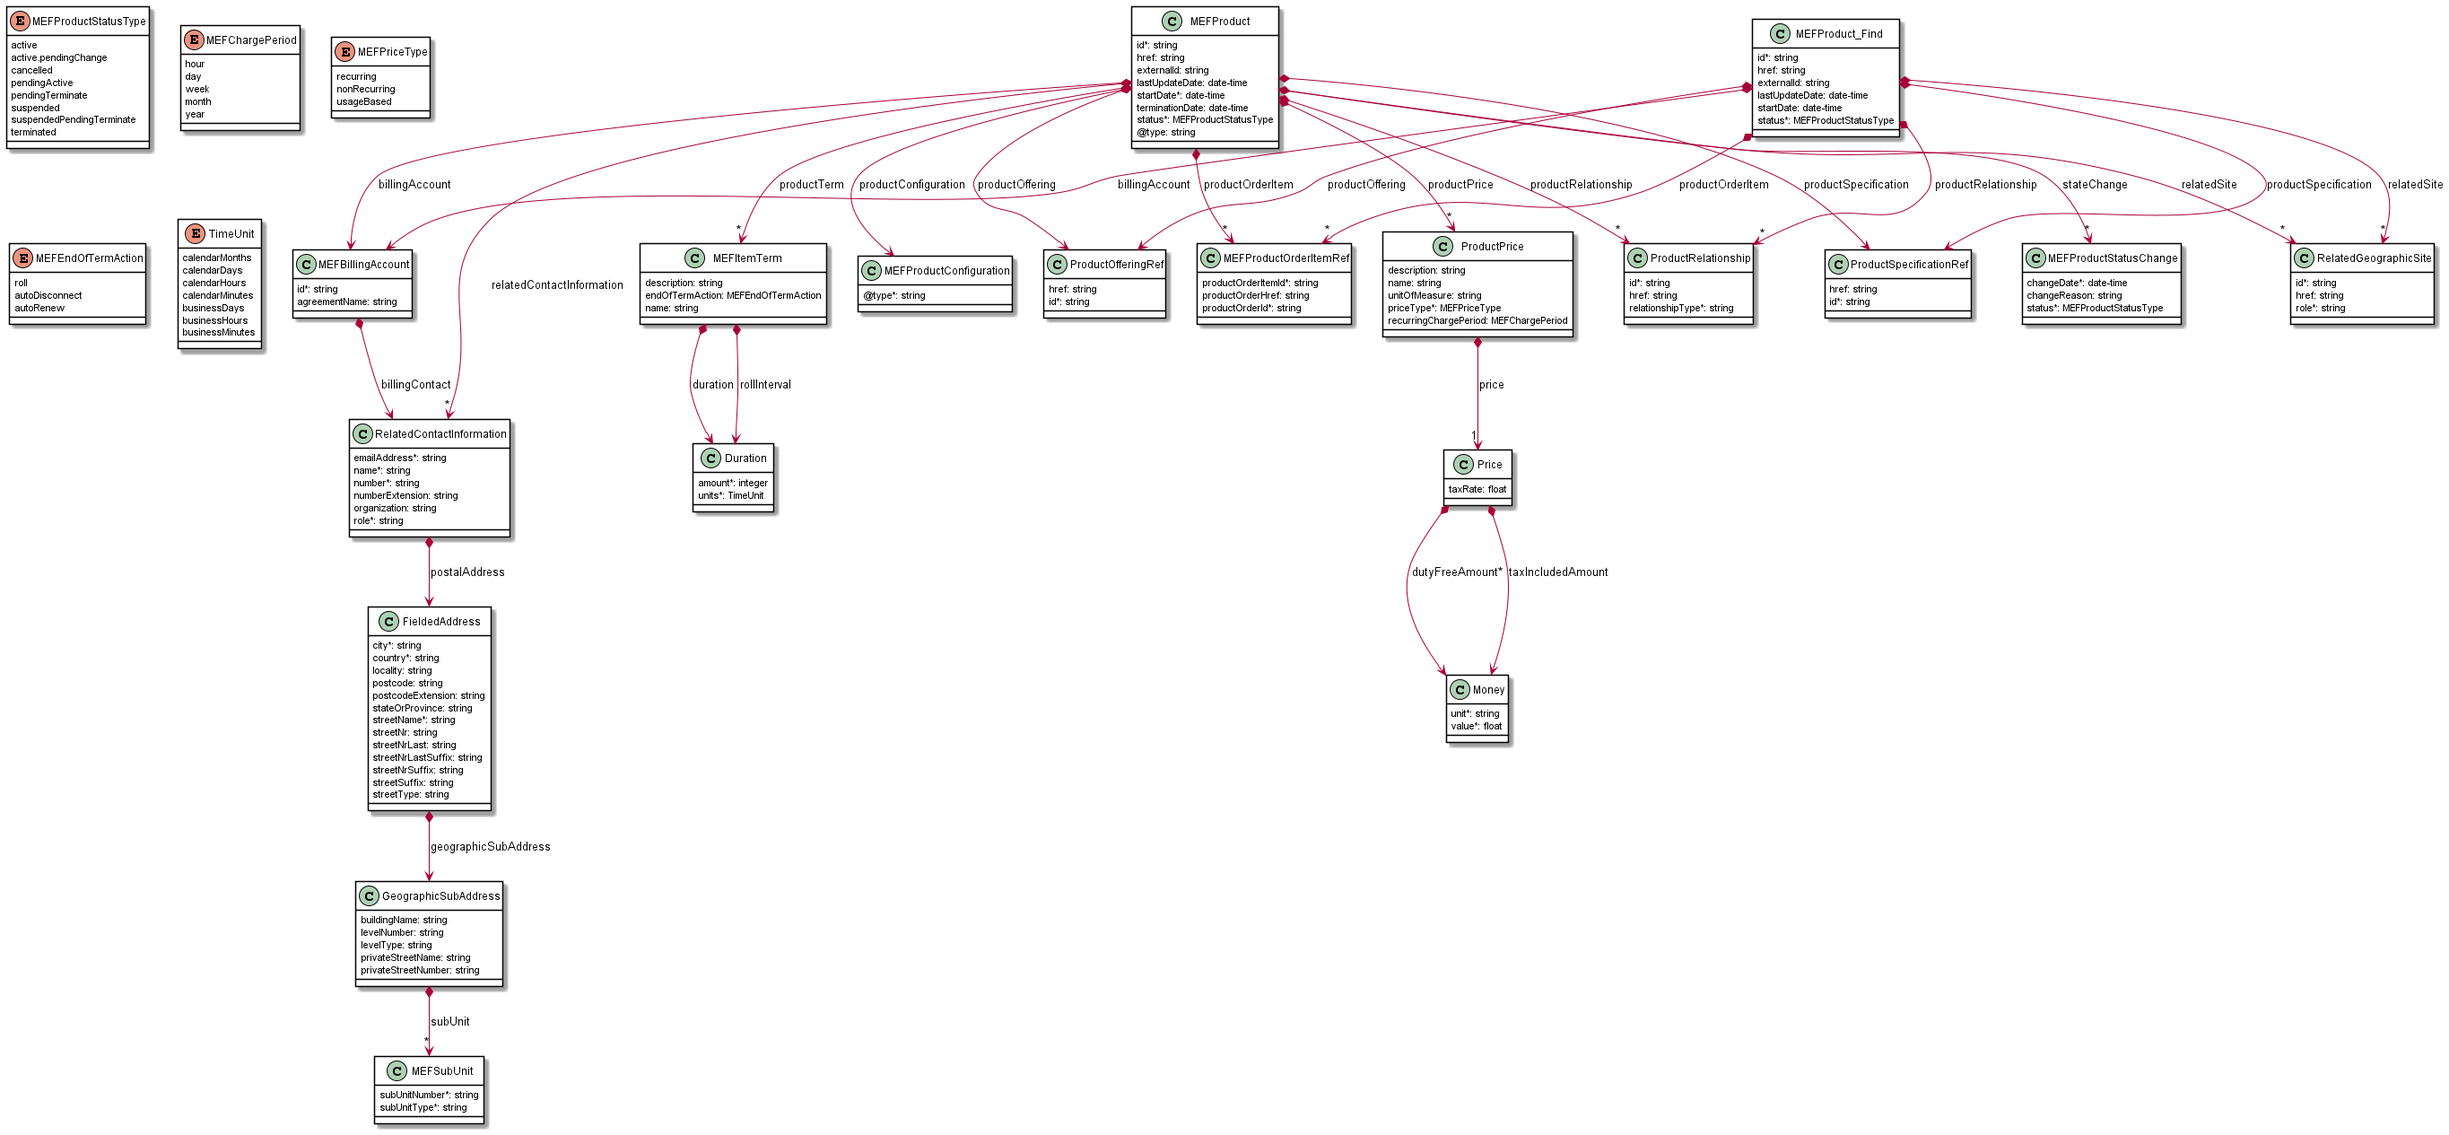
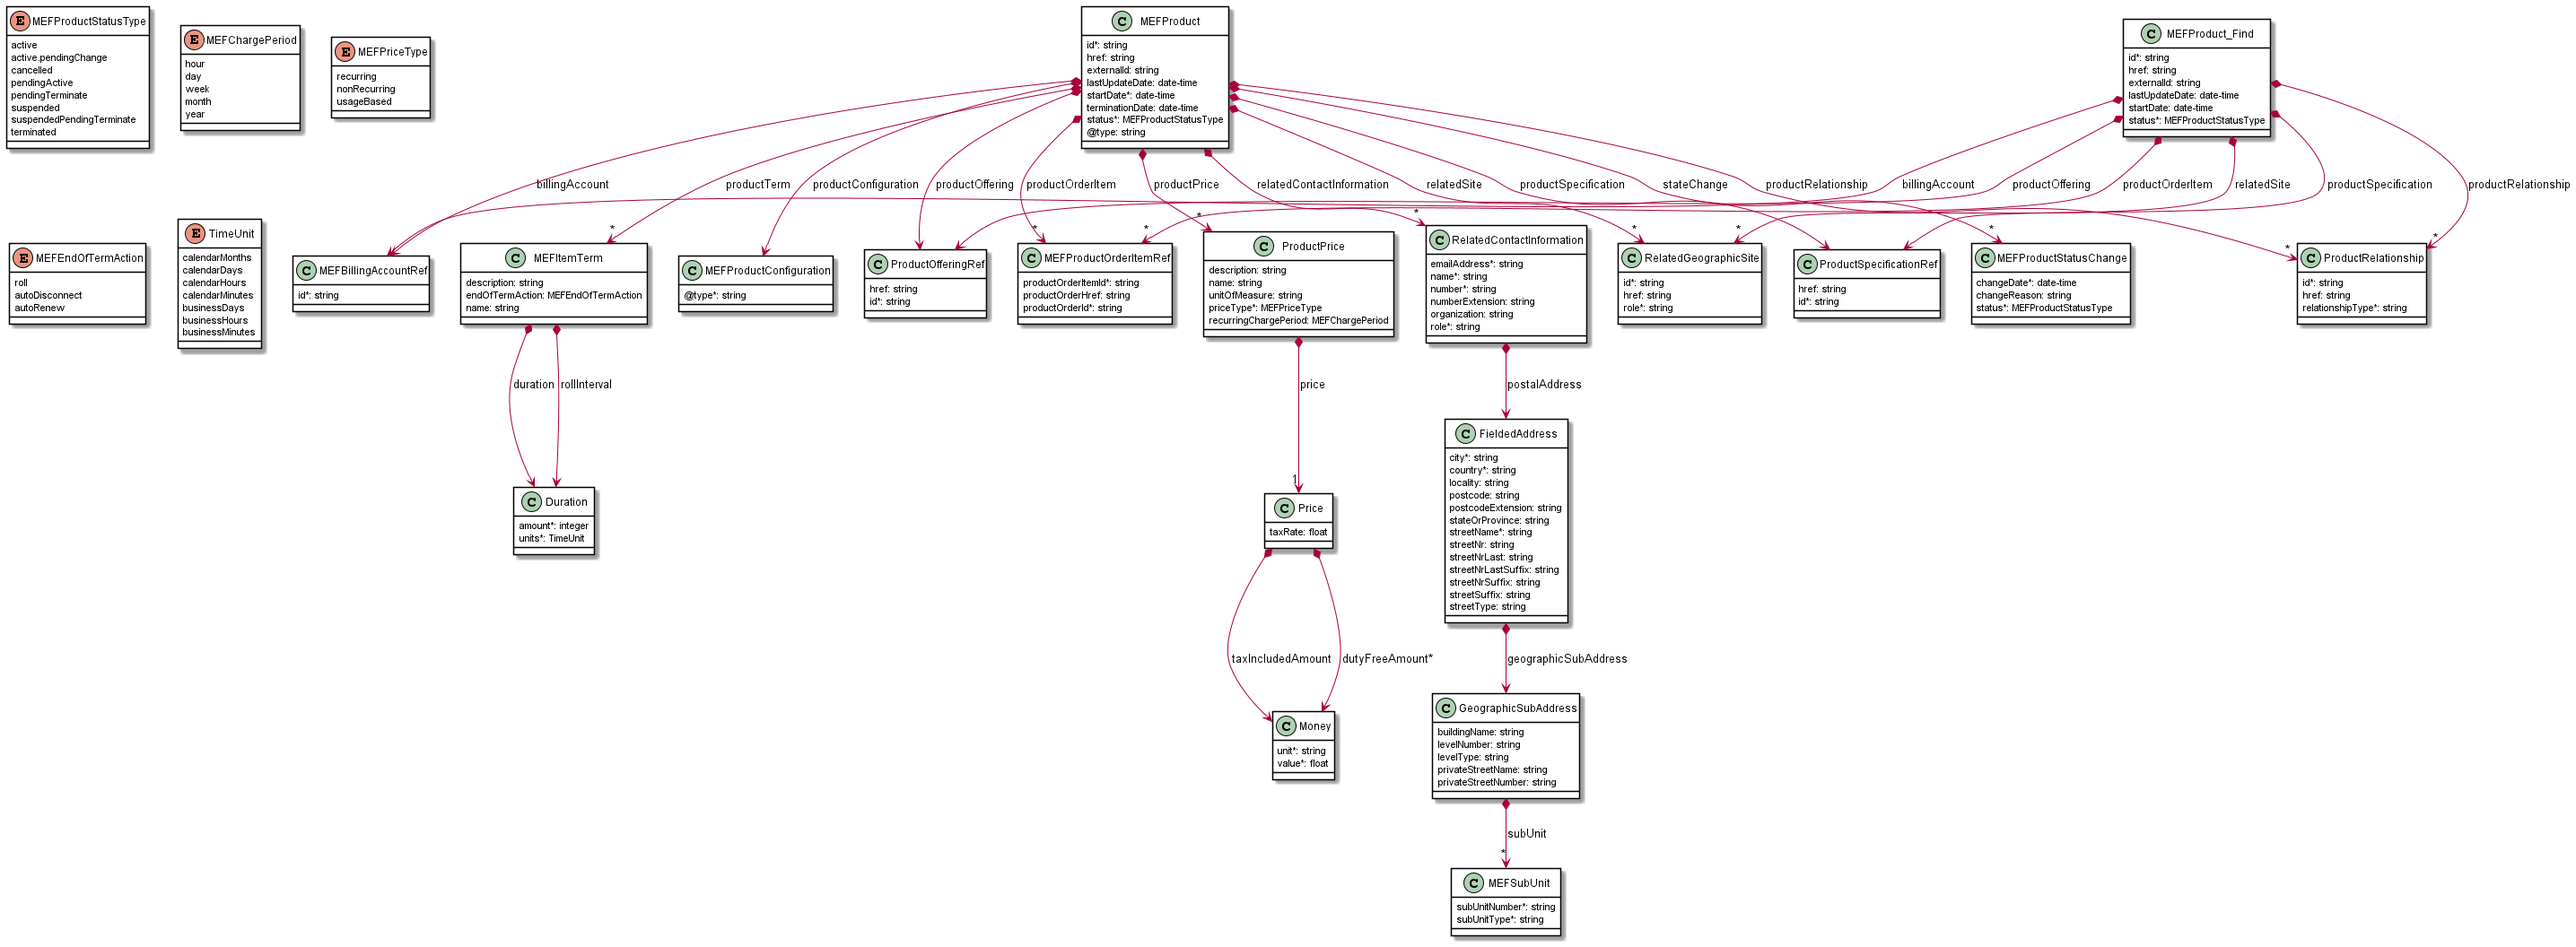
Inventory Commit for standard

diff --git a/documentation/productApi/inventory/MEF 116 - LSO Cantata and LSO Sonata Product Inventory API - Developer Guide.md b/documentation/productApi/inventory/MEF 116 - LSO Cantata and LSO Sonata Product Inventory API - Developer Guide.md
@@ -122,7 +122,7 @@ contained herein.
       - [7.2.2.2. Type FieldedAddress](#7222-type-fieldedaddress)
       - [7.2.2.3. Type GeographicSubAddress](#7223-type-geographicsubaddress)
       - [7.2.2.4. Type MEFSubUnit](#7224-type-mefsubunit)
-      - [7.2.2.5. Type MEFBillingAccount](#7225-type-mefbillingaccount)
+      - [7.2.2.5. Type MEFBillingAccountRef](#7225-type-mefbillingaccountref)
       - [7.2.2.6. `enum` MEFChargePeriod](#7226-enum-mefchargeperiod)
       - [7.2.2.7. Type MEFItemTerm](#7227-type-mefitemterm)
       - [7.2.2.8. `enum` MEFEndOfTermAction](#7228-enum-mefendoftermaction)
@@ -174,16 +174,16 @@ they were part of this document, from the GitHub repository:
 <https://github.com/MEF-GIT/MEF-LSO-Sonata-SDK>
 
 commit id:
-[415ef5ad60d07cf6bc87c36c684217e98cb9936e](https://github.com/MEF-GIT/MEF-LSO-Sonata-SDK/tree/415ef5ad60d07cf6bc87c36c684217e98cb9936e)
+[2062c16db194adc5109d0b7c0578a1a9128c6471](https://github.com/MEF-GIT/MEF-LSO-Sonata-SDK/tree/2062c16db194adc5109d0b7c0578a1a9128c6471)
 
-- [`productApi/inventory/productInventoryManagement.api.yaml`](https://github.com/MEF-GIT/MEF-LSO-Sonata-SDK/blob/415ef5ad60d07cf6bc87c36c684217e98cb9936e/productApi/inventory/productInventoryManagement.api.yaml)
+- [`productApi/inventory/productInventoryManagement.api.yaml`](https://github.com/MEF-GIT/MEF-LSO-Sonata-SDK/blob/2062c16db194adc5109d0b7c0578a1a9128c6471/productApi/inventory/productInventoryManagement.api.yaml)
 
 <https://github.com/MEF-GIT/MEF-LSO-Cantata-SDK>
 
 commit id:
-[6a27c0b1a237753ea234a6b4ad10798da837d2e6](https://github.com/MEF-GIT/MEF-LSO-Cantata-SDK/tree/6a27c0b1a237753ea234a6b4ad10798da837d2e6)
+[fd4aad8d6417b6aed2fa4e2d4ffa9836648addb0](https://github.com/MEF-GIT/MEF-LSO-Cantata-SDK/tree/fd4aad8d6417b6aed2fa4e2d4ffa9836648addb0)
 
-- [`productApi/inventory/productInventoryManagement.api.yaml`](https://github.com/MEF-GIT/MEF-LSO-Cantata-SDK/blob/6a27c0b1a237753ea234a6b4ad10798da837d2e6/productApi/inventory/productInventoryManagement.api.yaml)
+- [`productApi/inventory/productInventoryManagement.api.yaml`](https://github.com/MEF-GIT/MEF-LSO-Cantata-SDK/blob/fd4aad8d6417b6aed2fa4e2d4ffa9836648addb0/productApi/inventory/productInventoryManagement.api.yaml)
 
 # 2. Terminology and Abbreviations
 
@@ -485,16 +485,16 @@ states:
 In the API the `buyerId` and `sellerId` are represented as query parameters in
 each operation defined in `productInventoryManagement.api.yaml`.
 
-**[R2]** If the Requesting Entity has the authority to represent more than
-one Buyer the request **MUST** include `buyerId` query parameter that
-identifies the Buyer being represented [MEF81 R12]
+**[R2]** If the Requesting Entity has the authority to represent more than one
+Buyer the request **MUST** include `buyerId` query parameter that identifies
+the Buyer being represented [MEF81 R12]
 
 **[R3]** If the Requesting Entity represents precisely one Buyer with the
 Responding Entity, the request **MUST NOT** specify the `buyerId` [MEF81 R13]
 
-**[R4]** If the Responding Entity represents more than one Seller to this
-Buyer the request **MUST** include `sellerId` query parameter that identifies
-the Seller with whom this request is associated [MEF81 R14]
+**[R4]** If the Responding Entity represents more than one Seller to this Buyer
+the request **MUST** include `sellerId` query parameter that identifies the
+Seller with whom this request is associated [MEF81 R14]
 
 **[R5]** If the Responding Entity represents precisely one Seller to this
 Buyer, the request **MUST NOT** specify the `sellerId` [MEF81 R15]
@@ -583,12 +583,12 @@ Regardless of chosen implementation pattern, the HTTP payload is exactly the
 same. Both implementation approaches must conform to the requirements specified
 below.
 
-**[R6]** `MEFProductConfiguration` type is an extension point that **MUST**
-be used to integrate product specifications' properties into a request/response
+**[R6]** `MEFProductConfiguration` type is an extension point that **MUST** be
+used to integrate product specifications' properties into a request/response
 payload.
 
-**[R7]** The `@type` property of `MEFProductConfiguration` **MUST** be used
-to specify the type of the extending entity.
+**[R7]** The `@type` property of `MEFProductConfiguration` **MUST** be used to
+specify the type of the extending entity.
 
 **[R8]** Product attributes specified in the payload must conform to the
 product specification specified in the `@type` property.
@@ -737,8 +737,7 @@ The snippet below shows an example of a response with 1 product matched:
     "lastUpdateDate": "2021-06-01T08:55:54.155Z",
     "startDate": "2021-05-01T08:55:54.155Z",
     "billingAccount": {
-      "id": "00000000-1111-0000-0000-000000000001",
-      "agreementName": "Buyer-Seller General Agreement 03/2021"
+      "id": "00000000-1111-0000-0000-000000000001"
     },
     "productOffering": {
       "id": "00000000-5555-0000-0000-000000000001"
@@ -775,8 +774,8 @@ query format [rfc3986](#8-references). Section
 [7.1.2.](#712-response-pagination) provides details about the implementation of
 pagination mechanism.
 
-**[R12]** In case no items matching the criteria are found, the Seller
-**MUST** return a valid response with an empty list.
+**[R12]** In case no items matching the criteria are found, the Seller **MUST**
+return a valid response with an empty list.
 
 **[R13]** The Seller **MUST** put the following attributes (if set) into the
 `MEFProduct_Find` object in the response: [MEF81 R8]:
@@ -908,8 +907,7 @@ Example request and response:
     }
   },
   "billingAccount": {
-    "id": "00000000-1111-0000-0000-000000000001",
-    "agreementName": "Buyer-Seller General Agreement 03/2021"
+    "id": "00000000-1111-0000-0000-000000000001"
   },
   "productOffering": {
     "id": "00000000-5555-0000-0000-000000000001"
@@ -1027,10 +1025,10 @@ A detailed description of each of state can be found in the table below.
 Products that are terminated might be removed from the Seller's inventory
 system or shown in the `terminated` state at the Seller's discretion.
 
-**[R14]** The Seller **MUST** provide the following contact information:
-[MEF81 R11]
+**[R14]** The Seller **MUST** provide the following contact information: [MEF81
+R11]
 
-| Contract Role               | `role` value                                                            | Description                                                                           |
+| Contact Role               | `role` value                                                            | Description                                                                           |
 | --------------------------- | ----------------------------------------------------------------------- | ------------------------------------------------------------------------------------- |
 | Assurance Technical Contact | `buyerAssuranceTechnicalContact`,</br>`sellerAssuranceTechnicalContact` | Operational contact such as Network Operations Center (NOC) for each party.           |
 | Commercial Contact          | `buyerCommercialContact`, </br>`sellerCommercialContact`                | Contact for commercial issues like billing, contract extensions, etc. for each party. |
@@ -1377,7 +1375,7 @@ resource(s).
             <td>Product</td>
         </tr><tr>
             <td>billingAccount</td>
-            <td><a href="#T_MEFBillingAccount">MEFBillingAccount</a></td>
+            <td><a href="#T_MEFBillingAccountRef">MEFBillingAccountRef</a></td>
             <td>The Billing Account associated with the Product</td>
             <td>Billing Account Identifier</td>
         </tr><tr>
@@ -1481,7 +1479,7 @@ list) operation
             <td>Initial Order Completion Date</td>
         </tr><tr>
             <td>billingAccount</td>
-            <td><a href="#T_MEFBillingAccount">MEFBillingAccount</a></td>
+            <td><a href="#T_MEFBillingAccountRef">MEFBillingAccountRef</a></td>
             <td>The Billing Account associated with the Product</td>
             <td>Billing Account Identifier</td>
         </tr><tr>
@@ -1819,12 +1817,12 @@ possible.
     </tbody>
 </table>
 
-#### 7.2.2.5. Type MEFBillingAccount
+#### 7.2.2.5. Type MEFBillingAccountRef
 
 **Description:** References the billing arrangement that a buyer has with a
 seller that provides products to the customer.
 
-<table id="T_MEFBillingAccount">
+<table id="T_MEFBillingAccountRef">
     <thead style="font-weight:bold;">
         <tr>
             <td>Name</td>
@@ -1839,16 +1837,6 @@ seller that provides products to the customer.
             <td>string</td>
             <td>Identifies the buyer&#x27;s billing account to which the recurring and non-recurring charges for this order or order item will be billed. Required if the Buyer has more than one Billing Account with the Seller and for all new Product Orders.</td>
             <td>Billing Account Identifier</td>
-        </tr><tr>
-            <td>billingContact</td>
-            <td><a href="#T_RelatedContactInformation">RelatedContactInformation</a></td>
-            <td>Contact allow to capture contact information. It is used to capture billing account contact information.</td>
-            <td>Not represented in MEF 81</td>
-        </tr><tr>
-            <td>agreementName</td>
-            <td>string</td>
-            <td>The name of the Agreement which is referenced for the Product Order Item.</td>
-            <td>Not represented in MEF 81</td>
         </tr>
     </tbody>
 </table>
@@ -2258,16 +2246,6 @@ role for this Entity. The rule for mapping a represented attribute value to a
     </tbody>
 </table>
 
-The `role` attribute is used to provide a reason the particular party
-information is used. It can result from MEF 57.2 requirements (e.g. Seller
-Contact Information) or from the Product Specification requirements.
-
-The rule for mapping a represented attribute value to a `role` is to use the
-_lowerCamelCase_ pattern e.g.
-
-- Seller Contact: `role` equal to `sellerContact`
-- Buyer Contact Information: `role` equal to `buyerContactInformation`
-
 #### 7.2.2.18. Type RelatedGeographicSite
 
 **Description:** A Geographic Site and an associated role as installation
@@ -2291,7 +2269,7 @@ address, delivery address, etc....
         </tr><tr>
             <td>href</td>
             <td>string</td>
-            <td>Unique reference of the geographic site</td>
+            <td>Hyperlink to the referenced geographic site</td>
             <td>Not represented in MEF 81</td>
         </tr><tr>
             <td>role*</td>
@@ -2366,6 +2344,11 @@ process.
   Requirements and Use Cases, November 2019
 - [MEF80] [MEF 80](https://www.mef.net/wp-content/uploads/MEF-80.pdf), Quote
   Management Requirements and Use Cases, July 2021
+- [MEF81] [MEF 81](https://www.mef.net/wp-content/uploads/2019/11/MEF-81.pdf),
+  Product Inventory Management - Requirements and Use Cases, November 2019
+- [MEF81.0.1]
+  [MEF 81.0.1](https://www.mef.net/wp-content/uploads/2020/02/MEF-81-0-1.pdf),
+  Amendment to MEF 81: Product Inventory Management, February 2020
 - [TMF637]
   [TMF 674](https://projects.tmforum.org/wiki/download/attachments/123080633/TMF637_Product_Inventory_Management_API_REST_Specification_R19.0.0.pdf)
   TMF637 Product Inventory Management API REST Specification R19.0.0, June 2019

diff --git a/productApi/inventory/README.md b/productApi/inventory/README.md
@@ -10,6 +10,8 @@
 
 - `dutyFreeAmount` - made required
 
+`MEFBillingAccount` replaced with `MEFBillingAccountRef`
+
 ## Release Celine:
 
 **Readiness status**: Requested Letter Ballot. It will be most likely published as a standard in this form.
